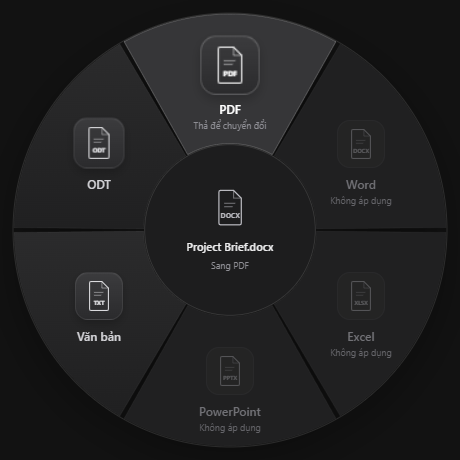
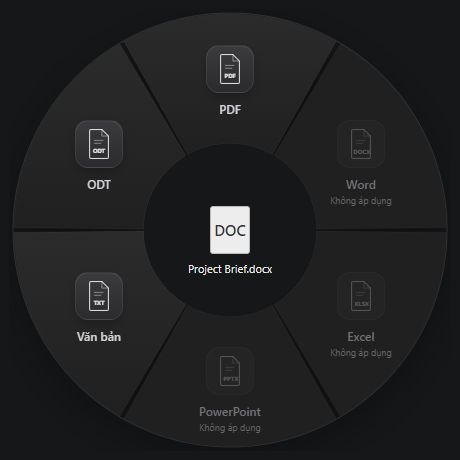
Keep the original file visible through the radial menu center

diff --git a/src/RadialMenu.tsx b/src/RadialMenu.tsx
@@ -1,7 +1,6 @@
 import {useEffect,useId,useRef,useState,type PointerEvent,type CSSProperties} from 'react';
 import {ringLayout,ringHit,ringWedge,type Anchor} from './ring-layout';
 import {useDockMotion} from './use-dock-motion';
-import logo from '../assets/warp.png';
 import './radial-menu.css';
 
 const primary=['pdf','docx','xlsx','pptx','txt'];
@@ -9,8 +8,8 @@ const names:Record<string,string>={pdf:'PDF',txt:'Văn bản',docx:'Word',xlsx:'
 function DocumentGlyph({format='DOC'}:{format?:string}){
   return <svg className="document-glyph" viewBox="0 0 36 44" fill="none" aria-hidden="true"><path d="M7 2h15l9 9v29a2 2 0 0 1-2 2H7a2 2 0 0 1-2-2V4a2 2 0 0 1 2-2Z" stroke="currentColor" strokeWidth="1.4"/><path d="M22 2v9h9M11 17h13M11 21h10" stroke="currentColor" strokeWidth="1.3" opacity=".5"/><text x="18" y="34" textAnchor="middle" fill="currentColor" fontSize="8" fontWeight="650">{format.toUpperCase().slice(0,4)}</text></svg>;
 }
-interface Props {file:string|null;targets:string[];busy:boolean;anchor:Anchor;width:number;height:number;presentation?:number;onConvert:(format:string)=>Promise<unknown>;onPick?:()=>void}
-export default function RadialMenu({file,targets,busy,anchor,width,height,presentation=0,onConvert,onPick}:Props){
+interface Props {file:string|null;targets:string[];busy:boolean;anchor:Anchor;width:number;height:number;presentation?:number;onConvert:(format:string)=>Promise<unknown>}
+export default function RadialMenu({file,targets,busy,anchor,width,height,presentation=0,onConvert}:Props){
   const [active,setActive]=useState<string|null>(null);
   const root=useRef<HTMLDivElement>(null),entrance=useRef<HTMLDivElement>(null),ghost=useRef<HTMLDivElement>(null);
   const dragging=useRef(false),committing=useRef(false);
@@ -52,27 +51,26 @@ export default function RadialMenu({file,targets,busy,anchor,width,height,presen
   function release(e:PointerEvent){if(!dragging.current)return;const format=hit(local(e));reset();if(format)void choose(format);}
   const shifted=Math.hypot(center.x-anchor.x,center.y-anchor.y)>2;
   const bounds={left:center.x-outer-5,top:center.y-outer-5,width:(outer+5)*2,height:(outer+5)*2};
+  // Mask after the drop shadow, so neither paint nor shadow covers the original file.
+  const centerMask=`radial-gradient(circle at ${outer+5}px ${outer+5}px, transparent ${inner-1}px, #000 ${inner}px)`;
+  const originMask=`radial-gradient(circle at ${anchor.x-bounds.left}px ${anchor.y-bounds.top}px, transparent 43px, #000 44px)`;
+  const ringStyle={...bounds,maskImage:shifted?`${centerMask},${originMask}`:centerMask,maskComposite:'intersect'} as CSSProperties;
   return <div className={`radial-menu ${busy?'is-busy':''}`} ref={root} style={{width,height}} onPointerMove={move} onPointerUp={release} onPointerCancel={reset} onPointerLeave={()=>{if(!dragging.current){setActive(null);motion.move(null);}}} aria-label="Vòng tròn chuyển đổi">
-    {shifted&&<svg className="selection-tether" width={width} height={height} aria-hidden="true"><line x1={anchor.x} y1={anchor.y} x2={center.x} y2={center.y}/></svg>}
-    <div ref={entrance} className="orbit-entrance" style={bounds}>
+    <div ref={entrance} className="orbit-entrance" style={ringStyle}>
       <svg className="radial-orbit" width="100%" height="100%" viewBox={`${-outer-5} ${-outer-5} ${(outer+5)*2} ${(outer+5)*2}`}>
         <defs><linearGradient id={`${id}-surface`} x2="0" y2="1"><stop stopColor="#2b2b2c"/><stop offset="1" stopColor="#202021"/></linearGradient></defs>
         <circle r={outer+1} className="radial-rim"/>
         {formats.map((format,i)=>{const enabled=!!file&&targets.includes(format)&&!busy,angle=-90+i*step;return <g key={format} className={`radial-sector ${active===format?'is-active':''} ${enabled?'':'is-disabled'}`} data-format={format} role="button" tabIndex={enabled?0:-1} aria-disabled={!enabled} aria-label={`${names[format]}${enabled?'':' — không áp dụng cho tệp này'}`} onFocus={()=>{setActive(format);motion.focus(i);}} onBlur={()=>{setActive(null);motion.focus(-1);}} onKeyDown={e=>{if(enabled&&(e.key==='Enter'||e.key===' ')){e.preventDefault();void choose(format);}}} onClick={()=>void choose(format)}>
           <path fill={`url(#${id}-surface)`} d={ringWedge(angle-step/2+.65,angle+step/2-.65,inner,outer)}/>
         </g>;})}
-        <circle r={inner-1} className="radial-core"/>
       </svg>
       {formats.map((format,i)=>{const p=points[i];return <div key={format} className={`dock-slot ${active===format?'is-active':''} ${p.enabled?'':'is-disabled'}`} style={{left:p.x-bounds.left,top:p.y-bounds.top}} aria-hidden="true">
         <div className="dock-magnifier" ref={node=>{motion.nodes.current[i]=node;}}><div className="dock-face"><DocumentGlyph format={format}/></div></div>
         <span className="dock-caption">{names[format]}</span><span className="dock-status">{active===format?'Thả để chuyển đổi':!p.enabled&&file?'Không áp dụng':''}</span>
       </div>;})}
-      <button className="radial-file" style={{left:outer+5,top:outer+5,width:inner*2-10,height:inner*2-10} as CSSProperties} title={file??'Chọn tệp'} aria-label={file?`Kéo ${file} sang định dạng`:'Chọn một tệp'} disabled={busy} onPointerDown={begin} onClick={()=>{if(!file)onPick?.();}}>
-        {file?<DocumentGlyph format={file.split('.').pop()}/>:<img className="core-logo" src={logo} alt=""/>}
-        <strong>{file??'Chọn một tệp'}</strong><span>{busy?'Đang chuyển đổi…':active?`Sang ${names[active]}`:file?'Kéo sang định dạng':'hoặc thả tệp vào đây'}</span>
-      </button>
     </div>
-    {shifted&&<button className="shifted-anchor" style={{left:anchor.x,top:anchor.y}} aria-label="Kéo từ tệp gốc đã chọn" onPointerDown={begin}/>}
+    <button className="radial-origin" style={{left:center.x,top:center.y,width:inner*2-2,height:inner*2-2}} aria-label={file?`Kéo ${file} sang định dạng`:'Vùng tệp gốc'} disabled={busy||!file} onPointerDown={begin}/>
+    {shifted&&<button className="radial-origin" style={{left:anchor.x,top:anchor.y,width:86,height:86}} aria-label="Kéo từ tệp gốc đã chọn" disabled={busy||!file} onPointerDown={begin}/>}
     <div className="file-ghost" ref={ghost} hidden aria-hidden="true"><DocumentGlyph format={file?.split('.').pop()}/></div>
   </div>;
 }

diff --git a/src/radial-menu.css b/src/radial-menu.css
@@ -7,7 +7,6 @@
 .radial-sector.is-active>path,.radial-sector:focus-visible>path{fill:#363638;stroke:#ffffff35;stroke-width:1}
 .radial-sector:focus-visible>path{stroke:#ffffffbb;stroke-width:1.5}
 .radial-sector.is-disabled{cursor:default}.radial-sector.is-disabled>path{fill:#202021;stroke:#ffffff09}
-.radial-core{fill:#1d1d1e;stroke:#ffffff24;stroke-width:1}
 .dock-slot{position:absolute;width:0;height:0;pointer-events:none;text-align:center}
 .dock-magnifier{position:absolute;left:-24px;top:-24px;width:48px;height:48px;transform:translateY(var(--dock-lift,0px)) scale(var(--dock-scale,1));transform-origin:center;will-change:transform}
 .dock-face{width:100%;height:100%;display:flex;align-items:center;justify-content:center;border-radius:13px;background:linear-gradient(180deg,#3b3b3d,#2b2b2d);border:1px solid #ffffff12;box-shadow:inset 0 1px 0 #ffffff09,0 4px 9px #0003;color:#e4e4e7}
@@ -16,10 +15,10 @@
 .dock-status{position:absolute;top:51px;left:0;transform:translateX(-50%);font-size:9px;white-space:nowrap;color:#8e8e94;line-height:1.25}
 .dock-slot.is-active .dock-caption{color:#fff}.dock-slot.is-active .dock-face{border-color:#ffffff30;color:#fff}
 .dock-slot.is-disabled .dock-face{color:#b0b0b6;background:#29292b;box-shadow:none;opacity:.38}.dock-slot.is-disabled .dock-caption{color:#727277}.dock-slot.is-disabled .dock-status{color:#646469}
-.radial-file{position:absolute;transform:translate(-50%,-50%);border:0;background:transparent;border-radius:50%;display:flex;flex-direction:column;align-items:center;justify-content:center;padding:15px;cursor:grab;touch-action:none}
-.radial-file .document-glyph{width:31px;height:38px;color:#bcbcc2}.radial-file strong{font-size:11px;font-weight:550;max-width:100%;overflow:hidden;text-overflow:ellipsis;white-space:nowrap;margin-top:12px;color:#ededee}
-.radial-file>span{font-size:9px;color:#8e8e94;margin-top:5px;white-space:nowrap}.radial-file:active{cursor:grabbing}.radial-file:disabled{cursor:wait;opacity:.6}.core-logo{width:42px;height:42px;object-fit:contain;border-radius:9px}
-.selection-tether{position:absolute;inset:0;pointer-events:none}.selection-tether line{stroke:#bcbcc2;stroke-width:1;stroke-dasharray:3 5;opacity:.5}.shifted-anchor{position:absolute;transform:translate(-50%,-50%);width:66px;height:66px;border-radius:50%;border:1px dashed #ffffff70;background:#ffffff08;cursor:grab;touch-action:none}
+/* A single alpha step keeps Windows layered-window hit testing on the drag handle.
+   It is visually empty: no icon, text, border or visible panel is drawn here. */
+.radial-origin{position:absolute;transform:translate(-50%,-50%);border:0;padding:0;outline:none;background:rgba(0,0,0,.004);border-radius:50%;cursor:grab;touch-action:none}
+.radial-origin:active{cursor:grabbing}.radial-origin:disabled{cursor:default}.radial-origin:focus-visible{outline:1px dashed #ffffff44;outline-offset:-2px}
 .file-ghost{position:absolute;transform:translate(-50%,-50%);pointer-events:none;z-index:5;padding:7px 9px;border-radius:10px;background:#28282aeb;border:1px solid #ffffff30;box-shadow:0 5px 12px #0005;color:#f4f4f5}.file-ghost[hidden]{display:none}
 .is-busy .radial-sector{pointer-events:none}.is-busy .dock-slot{opacity:.45}
 @media(prefers-reduced-motion:reduce){.dock-magnifier{transform:none!important;will-change:auto}.radial-sector>path{transition:none}}

diff --git a/README.md b/README.md
@@ -1,8 +1,8 @@
 # Warp
 
-**Windows MVP · v0.4.0 (prerelease)**
+**Windows MVP · v0.4.1 (prerelease)**
 
-[Download Windows installer](https://github.com/HuangKha097/Warp/releases/tag/v0.4.0) · [Hướng dẫn sử dụng](HUONG-DAN.md)
+[Download Windows installer](https://github.com/HuangKha097/Warp/releases/tag/v0.4.1) · [Hướng dẫn sử dụng](HUONG-DAN.md)
 
 ![Warp circular Dock](docs/warp-preview.png)
 
@@ -10,13 +10,13 @@ Windows file conversion from a transparent radial menu. Select a file in Explore
 
 ## Install and use
 
-1. Download and run `Warp-Setup-0.4.0.exe`. The installer includes the local conversion engine. **Users do not need to download or install LibreOffice, Microsoft Office, Node.js or any other conversion tool.**
+1. Download and run `Warp-Setup-0.4.1.exe`. The installer includes the local conversion engine. **Users do not need to download or install LibreOffice, Microsoft Office, Node.js or any other conversion tool.**
 2. Warp starts silently in the system tray and is registered to run when you sign into Windows. No main/menu window opens. Single-click a document in Explorer or on the Desktop.
-3. Hold Alt + Shift. A single circular ring with contiguous format slices appears around the selection.
+3. Hold Alt + Shift. A single circular ring with contiguous format slices appears around the selection. Its center is visually empty so the actual file on the Desktop/Explorer stays visible.
 4. Keep the modifiers held, press the file icon, drag onto an enabled slice, and release the mouse. Then release the keys to dismiss the ring.
 5. The converted copy is written beside the original. Existing files are preserved using numbered names. Confirmed conversions continue in the background after the ring disappears.
 
-Unsupported destinations remain visible as disabled slices. Warp does not restructure a Word document into a spreadsheet or presentation. At screen edges the full circle moves inward just enough to fit, with a visible tether to the selected file; dragging can start from the original icon or the file in the center.
+Unsupported destinations remain visible as disabled slices. Warp does not restructure a Word document into a spreadsheet or presentation. At screen edges the full circle moves inward just enough to fit; an additional clear area keeps the original icon visible. Dragging can start from that icon or the empty center.
 
 A small bottom-right progress card shows preparation, conversion, saving, elapsed time and queued files. Its loading bar is indeterminate while processing. Completed copies can be revealed in their folder; failures include a reason and Retry. You can select another file while a conversion runs; jobs are serialized independently of the current selection. Click the tray icon to reopen the latest status. Right-click the tray → Exit to stop Warp. The installer registers a per-user Windows startup entry and removes it on uninstall. Alt + Shift can also trigger Windows input-language switching; Warp observes this shortcut without changing Windows settings.
 
@@ -68,7 +68,7 @@ This creates a per-user Windows installer in `release/`. The download is larger 
 
 ## Architecture
 
-- `src/`: React/TypeScript, full annular SVG slices with matching hit testing, center file and drag ghost.
+- `src/`: React/TypeScript, annular SVG slices with matching hit testing, an empty center with an invisible drag handle, and a drag ghost.
 - `electron/main.ts`: tray-only startup, transparent hold-only layer, non-activating progress card, validated IPC and conversion queue.
 - `electron/hold.ts`: gesture generation gate rejects stale selection lookups after modifier release.
 - `electron/conversion.ts`: bundled-engine discovery, format allowlist, isolated conversion, safe output naming.
@@ -81,6 +81,6 @@ The helper never simulates Ctrl+C and never reads the clipboard. Icon positions 
 
 Application code: MIT. The user-supplied Warp logo is separate artwork. Bundled engine: upstream licenses; see `THIRD-PARTY-NOTICES.md` and the original license files in the engine resources.
 
-## Interface in 0.3.0
+## Interface
 
-Monochrome circular Dock: charcoal surfaces, thin neutral borders and document glyphs. Icons magnify smoothly with pointer proximity, neighboring enabled icons respond with a cosine falloff, and an idle spring returns them to rest. Confirmed actions have a small bounce. The orbit enters with a short scale/fade on each hold; key release hides it immediately. Reduced-motion preferences disable magnification and bounce. There is no companion/menu window in v0.4.0; the ring appears only while the shortcut is held. This is a circular adaptation of the React Bits Dock reference supplied by the user, with no new Dock package dependency. The updated, cropped user logo replaces the prior artwork in all icon sizes.
+Monochrome circular Dock: charcoal surfaces, thin neutral borders and document glyphs. The center shows the original file underneath without drawing another icon, label or panel. Icons magnify smoothly with pointer proximity, neighboring enabled icons respond with a cosine falloff, and an idle spring returns them to rest. Confirmed actions have a small bounce. The orbit enters with a short scale/fade on each hold; key release hides it immediately. Reduced-motion preferences disable magnification and bounce. There is no companion/menu window; the ring appears only while the shortcut is held. This is a circular adaptation of the React Bits Dock reference supplied by the user, with no new Dock package dependency. The updated, cropped user logo replaces the prior artwork in all icon sizes.

diff --git a/HUONG-DAN.md b/HUONG-DAN.md
@@ -1,9 +1,9 @@
-# Warp 0.4.0 — hướng dẫn sử dụng
+# Warp 0.4.1 — hướng dẫn sử dụng
 
-1. Thoát Warp bản cũ rồi cài `Warp-Setup-0.4.0.exe`. Bộ chuyển đổi đã đi kèm, không phải cài LibreOffice riêng.
+1. Thoát Warp bản cũ rồi cài `Warp-Setup-0.4.1.exe`. Bộ chuyển đổi đã đi kèm, không phải cài LibreOffice riêng.
 2. Warp mở âm thầm trong khay hệ thống bên đồng hồ; không hiện cửa sổ menu. Bản cài đăng ký chạy khi đăng nhập Windows. Nếu chưa thấy logo, kiểm tra mục biểu tượng ẩn (dấu ^).
-3. Trên Desktop hoặc trong Explorer, bấm một lần chọn một tệp. Giữ **Alt + Shift** để hiện vòng tròn.
-4. Vẫn giữ hai phím, nhấn giữ chuột trên tệp ở tâm, kéo sang múi định dạng phù hợp rồi thả chuột để xác nhận.
+3. Trên Desktop hoặc trong Explorer, bấm một lần chọn một tệp. Giữ **Alt + Shift** để hiện vòng tròn. Phần tâm rỗng để nhìn thấy tệp gốc phía dưới, không vẽ lại icon và tên tệp.
+4. Vẫn giữ hai phím, nhấn giữ chuột trên tệp ở tâm, kéo sang múi định dạng phù hợp rồi thả chuột để xác nhận. Nếu tệp sát mép màn hình, vòng tròn dịch vào trong; vẫn có thể bắt đầu kéo từ vị trí tệp gốc hoặc tâm vòng tròn.
 5. Vòng tròn đóng sau khi xác nhận. Bảng nhỏ ở **góc phải dưới** báo đang chuẩn bị, đang chuyển đổi hoặc đang lưu bản sao, cùng thanh loading và thời gian chờ.
 6. Có thể chọn tệp khác và gọi vòng tròn tiếp trong lúc tệp trước đang xử lý; các yêu cầu sẽ xếp hàng và chạy lần lượt.
 7. Khi xong, bảng báo tên kết quả và có nút **Mở thư mục**. File mới nằm cạnh file gốc; trùng tên thì thêm số. Thành công tự ẩn sau khoảng 8 giây.

diff --git a/VALIDATION.md b/VALIDATION.md
@@ -1,6 +1,13 @@
-# Kiểm tra Warp 0.4.0
+# Kiểm tra Warp 0.4.1
 
-## Đã đạt
+## Kiểm tra thay đổi ở 0.4.1
+
+- TypeScript và build React/Electron/helper C# đạt.
+- Renderer Electron thật xác nhận tâm không còn icon, nhãn hay nền vẽ lại; bitmap của vùng tâm có alpha tối đa 2/255 (vùng nhận kéo gần như trong suốt). Khi vòng tròn dịch vào trong ở mép màn hình, vị trí tệp gốc cũng được để trống.
+- Kéo từ vùng tâm sang PDF vẫn gửi đúng một yêu cầu; múi không phù hợp bị chặn. Hover, hồi spring, reduced motion và các trạng thái bảng tiến trình đều đạt kiểm tra renderer.
+- Ảnh minh họa dùng nền Desktop giả lập trong bộ kiểm tra, không phải ảnh nghiệm thu Desktop thật. Thay đổi chỉ ở giao diện và vùng nhận kéo; các kiểm tra hàng đợi/bộ chuyển đổi bên dưới đã chạy ở 0.4.0.
+
+## Đã đạt ở 0.4.0
 
 - TypeScript, React/Electron build và helper C# Windows đã biên dịch thành công.
 - 18 unit test: bảo toàn file và tên trùng; engine tích hợp; spring; trạng thái giữ/nhả phím; vùng thả; tách file đang chọn khỏi tác vụ đang chạy; xếp hàng tệp kế tiếp; phục hồi sau lỗi và retry; chặn yêu cầu trùng; Exit hủy tác vụ; kết quả chọn file đến trễ; helper chết được tự khởi động lại.
